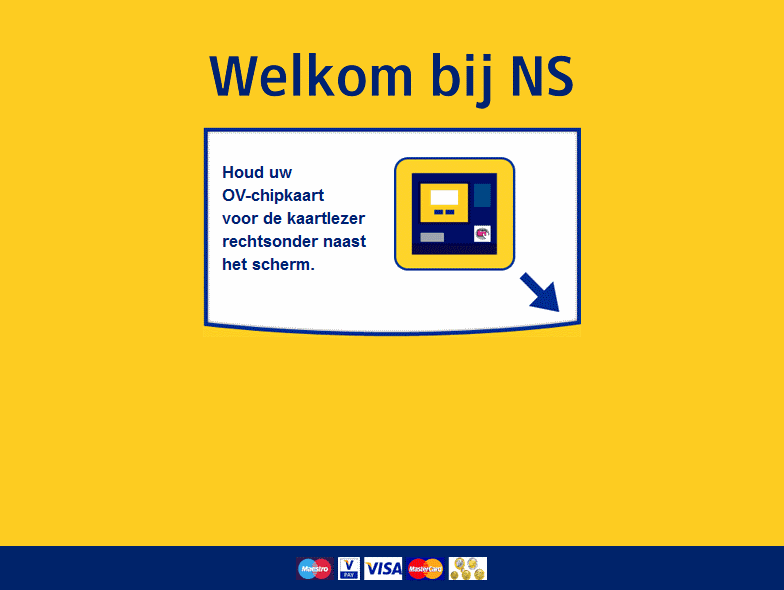
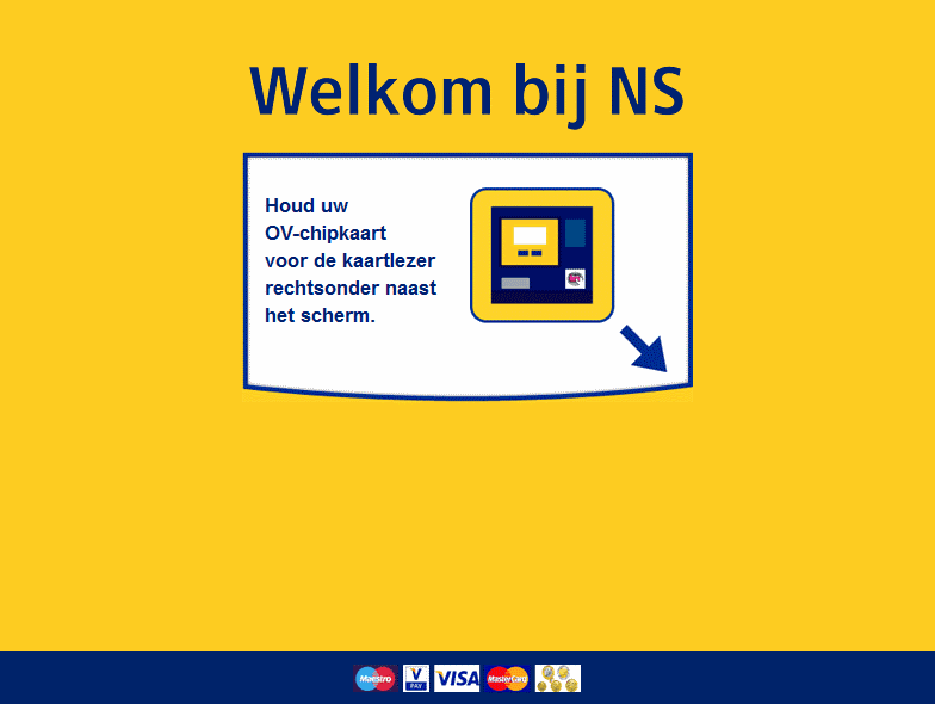
clean up ui changes background improvements goto page build and done travel information logic done

diff --git a/NS GUI.py b/NS GUI.py
@@ -1,61 +1,71 @@
 from tkinter import *
-import apimanagement as api
+from tkinter import ttk
+from apimanagement import apiManagement as Api
 import xmltodict
+import pprint
+import datetime
 
-class gui:
-    '''The gui system
-    '''
 
-    def __init__(self,master):
-        '''Return a gui object wich is used for all things gui '''
-        self.getsettings()
+class Gui:
+    """The gui system
+    """
+
+    def __init__(self, master):
+        self.nsapi = Api()
+        """Return a gui object wich is used for all things gui """
+        self.settings = self.getsettings()
         self.master = master
         self.master.resizable(False, False)
-
         self.homepng = PhotoImage(file="NS.png")
         self.cleanpng = PhotoImage(file="NSClean.png")
         self.gobackpng = PhotoImage(file="home.png")
-
-        self.background = Label(image = self.homepng)
+        self.background = Label(image=self.homepng)
         self.background.grid(row=0, column=0)
         # all frames here please
         self.homepageframe = Frame(self.master, background="#feca24")
-
-
-
-
+        self.testframe = Frame(self.master)
+        self.gotoframe = Frame(self.master)
+        self.travelinformationframe = Frame(self.master)
+        self.interferenceframe = Frame(self.master)
         # build first page
         self.buildhomepage()
 
-    def getsettings(self):
+    @staticmethod
+    def getsettings():
+        """writes the settings from file to dictionary"""
         with open('settings.xml') as settingsFile:
-            self.settings = xmltodict.parse(settingsFile.read())
+            return xmltodict.parse(settingsFile.read())
 
-    def clearframe(self,frame):
-        '''clear/'s specified frame'''
-        print(frame.grid_info())
+    @staticmethod
+    def clearframe(frame):
+        """clear's specified frame"""
         for widget in frame.winfo_children():
             widget.pack_forget()
             widget.grid_forget()
         frame.destroy()
 
-    def  changeframe(self,currentframe,newframe):
-        '''Change to desired frame'''
+    def changeframe(self, currentframe, newframe):
+        """Change to desired frame"""
         self.clearframe(currentframe)
-        if(newframe == 'testpage'):
-            self.testframe= Frame(self.master,background="#feca24")
+        if newframe == 'testpage':
+            self.testframe = Frame(self.master, background="#feca24")
             self.buildtestpage()
-        elif(newframe == 'homepage'):
-            self.homepageframe = Frame(self.master,background="#feca24")
+        elif newframe == 'homepage':
+            self.homepageframe = Frame(self.master, background="#feca24")
             self.buildhomepage()
             self.clearframe(self.gohomeframe)
-        elif(newframe =='goto'):
+        elif newframe == 'goto':
             self.gotoframe = Frame(self.master, background="#feca24")
             self.buildgoto()
-
-
+        elif newframe == 'reisinformatie':
+            self.travelinformationframe = Frame(self.master, background="#feca24")
+            self.buildtravelinformation()
+        elif newframe == 'storing':
+            self.interferenceframe = Frame(self.master, background="#feca24")
+            self.buildinterference()
 
     def buildhomepage(self):
+        """function to build the homepage ui"""
         self.homepageframe.grid(row=0, column=0, columnspan=1, )
         self.background.config(image=self.homepng)
         Button(self.homepageframe, text='Ik wil naar \nAmsterdam', background='#493782', foreground="#fff", height=3, width=12,
@@ -67,42 +77,146 @@ class gui:
         Button(self.homepageframe, text='Ik wil naar \nhet buitenland', background='#493782', foreground="#fff", height=3,
                width=12, font=('Helvetica', 10, 'bold italic')).grid(row=0, column=3, padx=20)
         Button(self.homepageframe, text='Reisinformatie \nopvragen', background='#493782', foreground="#fff", height=3,
-               width=12, font=('Helvetica', 10, 'bold italic'),command =lambda: self.changeframe(self.homepageframe,'testpage')).grid(row=0, column=4, padx=20)
-        self.homepageframe.place(y=400, x=35)
-
-    def buildtestpage(self):
-        self.buildgohome(self.testframe)
-        self.background.config(image=self.cleanpng)
-        self.testframe.grid(row=0, column=0, columnspan=1, )
-        Button(self.testframe, text='kak', background='#493782', foreground="#fff", height=3, width=12,
-               font=('Helvetica', 10, 'bold italic')).grid(row=0, column=0, padx=20, )
-        Button(self.testframe, text='kak', background='#493782', foreground="#fff", height=3, width=12,
-               font=('Helvetica', 10, 'bold italic')).grid(row=0, column=1, padx=20)
-        Button(self.testframe, text='kak', background='#493782', foreground="#fff", height=3, width=12,
-               font=('Helvetica', 10, 'bold italic')).grid(row=0, column=2, padx=20)
-        Button(self.testframe, text='kak', background='#493782', foreground="#fff", height=3,
-               width=12, font=('Helvetica', 10, 'bold italic')).grid(row=0, column=3, padx=20)
-        Button(self.testframe, text='kak', background='#493782', foreground="#fff", height=3,
-               width=12, font=('Helvetica', 10, 'bold italic'),command =lambda: self.clearframe(self.testframe)).grid(row=0, column=4, padx=20)
-        self.testframe.place(y=400, x=35)
-
+               width=12, font=('Helvetica', 10, 'bold italic'), command=lambda: self.changeframe(self.homepageframe, 'reisinformatie')).grid(row=0, column=4, padx=20)
+        Button(self.homepageframe, text='storingen \nopvragen', background='#493782', foreground="#fff", height=3,
+               width=12, font=('Helvetica', 10, 'bold italic'),
+               command=lambda: self.changeframe(self.homepageframe, 'storing')).grid(row=0, column=5, padx=20)
+        self.homepageframe.place(y=500, x=35)
 
     def buildgoto(self):
+        """function to build the goto ui"""
         self.buildgohome(self.gotoframe)
-        self.background.config(image = self.cleanpng)
-        Label(self.gotoframe, text="De reis naar Amsterdam kost €10", background="#2c2c2c").grid(row=0, column=0, padx=20, )
-        self.gotoframe.place(y=200, x=270)
+        self.background.config(image=self.cleanpng)
+        fromstation = self.settings['settings']['station']
+        gotostation = self.settings['settings']['goto']
+        # print(gotostation)
+        # title
+        Label(self.gotoframe, text="De volgende trein gaat naar "+gotostation, background="#feca24").grid(row=0, column=0)
+        self.gotoframe.place(y=352, x=467, anchor="center")
+        options = self.nsapi.getroute(fromstation,gotostation)
+        for reis in options['ReisMogelijkheden']['ReisMogelijkheid']:
+            if reis['Optimaal'] == 'true':
+                pprint.pprint(reis)
+                actuelevetrektijd = self.fixtime(reis['ActueleVertrekTijd'], 'time')
+                actueleaankomstijd = self.fixtime(reis['ActueleAankomstTijd'], 'time')
+                reisdeel = reis['ReisDeel']
+                spoorstart = reisdeel['ReisStop'][0]['Spoor']['#text']
+                spoorend = reisdeel['ReisStop'][-1]['Spoor']['#text']
+                reisinfo = "Om {} gaat er een trein vanaf spoor {} naar {}\nDeze trein komt aan om {} op spoor {}".format(actuelevetrektijd,spoorstart,gotostation,actueleaankomstijd,spoorend)
+                Label(self.gotoframe, text=reisinfo, background='#feca24').grid(row=1,column=0)
 
-
-    def buildgohome(self,currentframe):
+    def buildgohome(self, currentframe):
+        """function to build the home button"""
         self.gohomeframe = Frame(self.master, background="#00236a")
         self.gohomeframe.grid(row=0, column=0, columnspan=1, )
-        Button(self.gohomeframe, image = self.gobackpng, height=34, width=34, borderwidth=0, cursor="man", command=lambda: self.changeframe(currentframe, 'homepage')).grid(row=0, column=0, padx=20, )
-        self.gohomeframe.place(y=550, x=40)
+        Button(self.gohomeframe, image=self.gobackpng, height=34, width=34, borderwidth=0, cursor="man", command=lambda: self.changeframe(currentframe, 'homepage')).grid(row=0, column=0, padx=20, )
+        self.gohomeframe.place(y=664, x=40)
+
+    def buildtravelinformation(self):
+        """function to build the reisinformatie ui"""
+        # label titel
+        self.travelinformationframe.grid(row=0,column=0)
+        self.buildgohome(self.travelinformationframe)
+        self.background.config(image=self.cleanpng)
+        station = self.settings['settings']['station']
+        # get the column values
+        columnvalues = self.settings['settings']['layout']['table']['rijsinformatie']['columns'].values()
+        columnnames = tuple(item for sublist in columnvalues for item in sublist)
+        # get all values for station (the select)
+        stations = self.nsapi.getstationlijst()
+        # building table and scrollbar using api data
+        # configure table
+        table = ttk.Treeview(self.travelinformationframe, columns=columnnames)
+        table.grid(row=0,column=2)
+        table['show'] = 'headings'
+        # configure select
+        select = Listbox(self.travelinformationframe)
+        select.grid(row=0, column=0, sticky=N+S+W)
+        select.bind('<<ListboxSelect>>', lambda e: self.selectstation(e,table))
+        # configure table scroll
+        tablescroll = ttk.Scrollbar(self.travelinformationframe, orient="vertical", command=table.yview)
+        tablescroll.grid(row=0,column=3, sticky=N+S+W)
+        # configure selectscroll
+        selectscroll = ttk.Scrollbar(self.travelinformationframe, orient="vertical", command=select.yview)
+        selectscroll.grid(row=0,column=1, sticky=N+S+W)
+        # link scrolls
+        table.configure(yscrollcommand=tablescroll.set)
+        select.configure(yscrollcommand=selectscroll.set)
+        # fill select
+        for stationrow in stations['Stations']['Station']:
+            if stationrow['Land'] == 'NL':
+                select.insert(END,stationrow['Namen']['Middel'])
+
+        # fill table
+        self.populatetravelinfotable(table,station)
+
+    def buildinterference(self):
+        """function to build the storing ui"""
+        # display storingen
+        self.interferenceframe.grid(row=0,column=0)
+        self.buildgohome(self.interferenceframe)
+        self.background.config(image=self.cleanpng)
+        station = self.settings['settings']['station']
+        data = self.nsapi.getstoring(station)
+
+    def selectstation(self, evt,table):
+        """Catches select event and changes the table"""
+        w = evt.widget
+        index = int(w.curselection()[0])
+        value = w.get(index)
+        print( 'You selected item %d: "%s"' % (index, value))
+        self.populatetravelinfotable(table,value)
 
 
-    def buildreisinformatie(self):
-        data = api.apimanagement.getvertrektijden(self.settings['settings']['station'])
+    def populatetravelinfotable(self, table, station):
+        """function to populate the travelinfo table with values"""
+        # empty current table
+        table.delete(*table.get_children())
+        # get all values for the table and transform them in tuples
+        columnvalues = self.settings['settings']['layout']['table']['rijsinformatie']['columns'].values()
+        rowvalues = self.settings['settings']['layout']['table']['rijsinformatie']['values'].values()
+        columns = tuple(item for sublist in columnvalues for item in sublist)
+        rows = tuple(item for sublist in rowvalues for item in sublist)
+        #fill empty table
+        for column in columns:
+            table.heading(column, text=column)
+            table.column(column, stretch=True, width=100)
+        data = self.nsapi.getvertrektijden(station)
+        for row in data['ActueleVertrekTijden']['VertrekkendeTrein']:
+            rowlist = list()
+            for value in rows:
+                if "|" in value:
+                    splitvalue = value.split('|')
+                    rowlist.append(row[splitvalue[0]][splitvalue[1]])
+                elif value == 'VertrekTijd':
+                    # Format the given date back to a datetimeobject, from which we can construct our own format
+                    strDisplayTime = self.fixtime(row['VertrekTijd'])
+                    rowlist.append(strDisplayTime)
+                elif value == 'VertrekVertragingTekst':
+                    # check if there is 'vertraging'
+                    if 'VertrekVertragingTekst' in row:
+                        rowlist.append(row[value])
+                    else:
+                        rowlist.append("")
+                else:
+                    rowlist.append(row[value])
+            table.insert('', 'end', values=rowlist)
+
+    def fixtime(self,time,format='full'):
+        """fixes time so it is readable"""
+        if format == 'full':
+            dateTimeObject = datetime.datetime.strptime(str(time), '%Y-%m-%dT%H:%M:%S%z')
+            strDisplayTime = datetime.datetime.strftime(dateTimeObject, '%Y-%m-%d %H:%M')
+            return strDisplayTime
+        elif format == 'time':
+            dateTimeObject = datetime.datetime.strptime(str(time), '%Y-%m-%dT%H:%M:%S%z')
+            strDisplayTime = datetime.datetime.strftime(dateTimeObject, '%H:%M')
+            return strDisplayTime
+        else:
+            return 'Er is iets fout gegaan probeer het opnieuw!'
+
+
 root = Tk()
-gui = gui(root)
+gui = Gui(root)
+
 root.mainloop()

diff --git a/apimanagement.py b/apimanagement.py
@@ -1,12 +1,6 @@
 import requests as req
 import xmltodict
-# import pprint
-
-# def stations(data):
-#     for x in data['Stations']['Station']:
-#         if x['Land'] == 'NL':
-#             print(x['Namen']['Kort'])
-
+import datetime
 
 class apiManagement:
     """The ns api call system.
@@ -18,7 +12,6 @@ class apiManagement:
         """Return an api manager object wich can be used to make api calls"""
         with open('settings.xml') as settingsFile:
             self.settings = xmltodict.parse(settingsFile.read())
-            print(self.settings)
 
     def getvertrektijden(self, station):
         """Request an api call for "vertrektijden" """
@@ -28,6 +21,7 @@ class apiManagement:
 
     def getstoring(self, station):
         """Request an api call for "storingen" """
+        station = station
         url = self.settings['settings']['api']['url']['storingen'] + station
         data = self.sendcall(url)
         return data
@@ -35,6 +29,12 @@ class apiManagement:
     def getstationlijst(self):
         """request an api call for "stationlijst" """
         url = self.settings['settings']['api']['url']['stationlijst']
+        data = self.sendcall(url)
+        return data
+
+    def getroute(self,startstation,endstation):
+        """request an api call to generate a route"""
+        url = self.settings['settings']['api']['url']['route'] + 'fromStation=' + startstation + '&toStation='+ endstation
         data = self.sendcall(url)
         return data
 
@@ -57,11 +57,3 @@ class apiManagement:
         else:
             dataasdict = xmltodict.parse(r.text)
             return dataasdict
-
-# api = apimanagement()
-# stationdict = api.getstationlijst()
-# vertrektijden = api.getvertrektijden('utrecht centraal')
-# storingen = api.getstoring('utrecht centraal')
-# pprint.pprint(storingen)
-# pprint.pprint(vertrektijden)
-# stations(stationdict)
